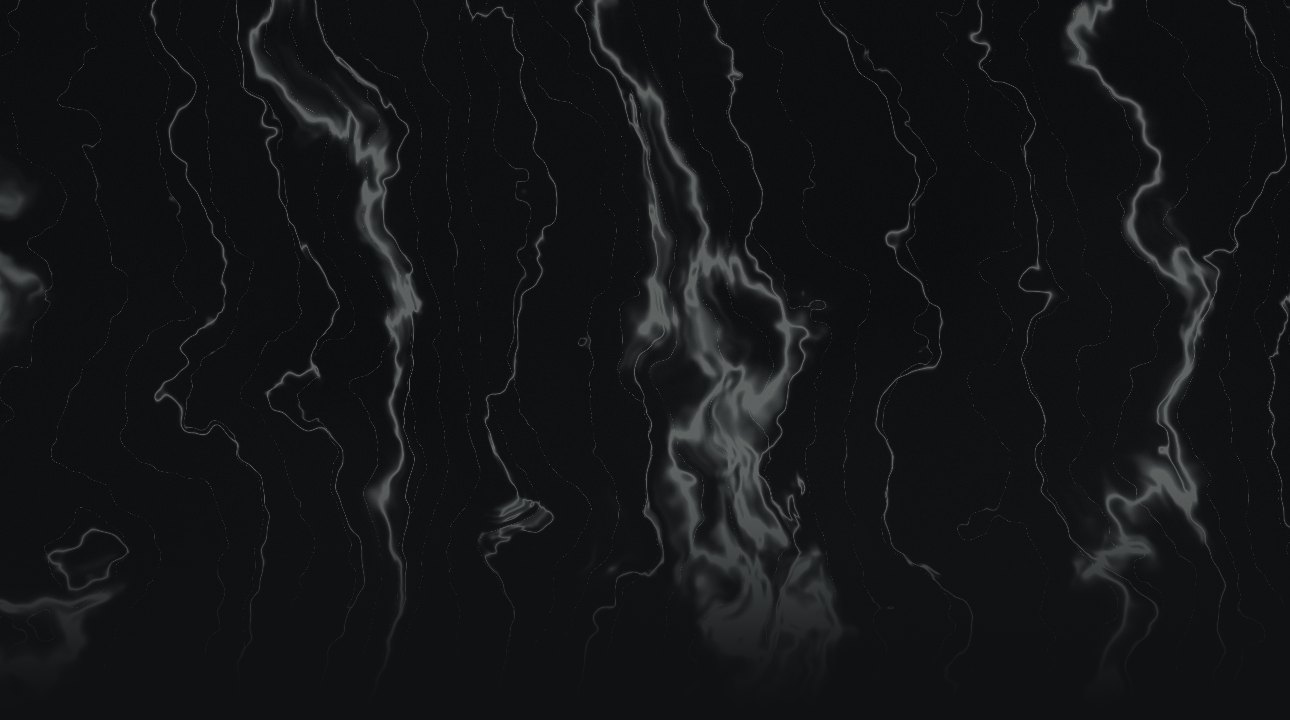
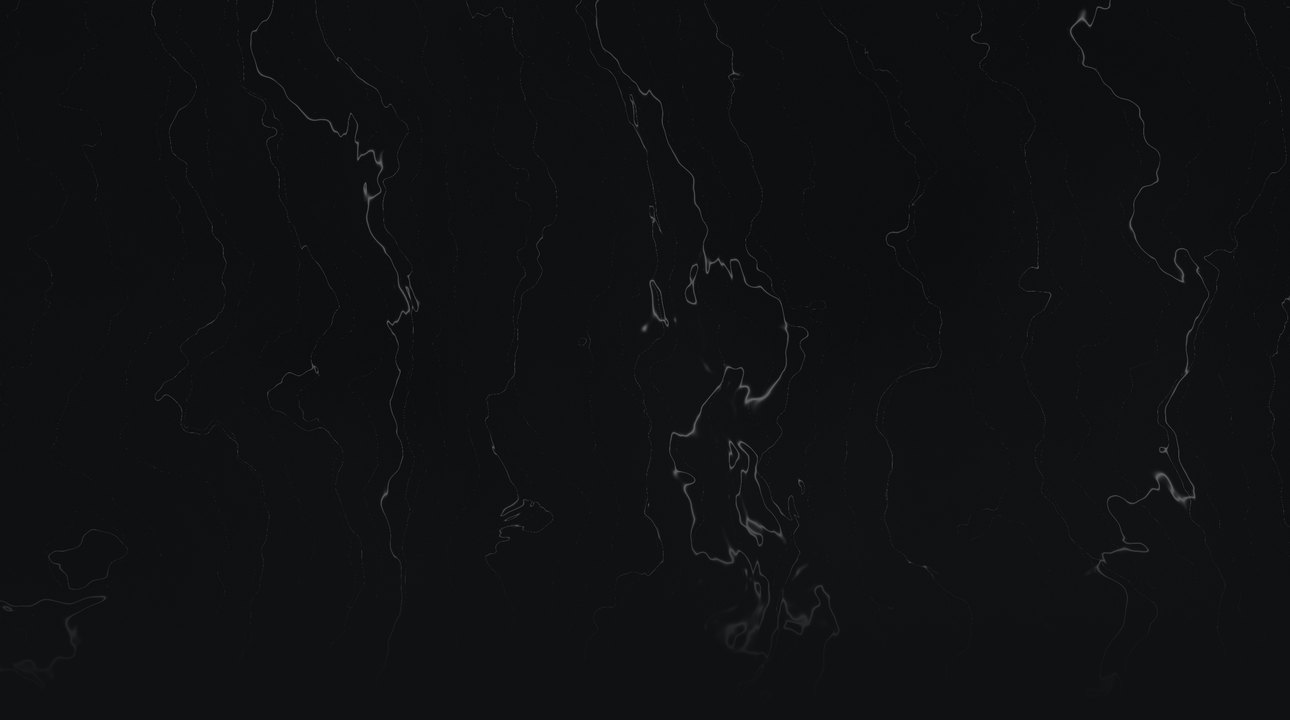
chore(assets): actualiza texturas de mármol con vetas más finas (PO 2026-09-13)
Cambio externo del Orquestador detectado en el árbol de trabajo, no una
edición propia de nerv-mobile — el ticket pide no regenerar ni tocar estas
texturas. Se commitea tal cual llegó para no perder el refinamiento del PO.

diff --git a/scripts/generar-marmol.py b/scripts/generar-marmol.py
@@ -1,12 +1,14 @@
 # Genera las texturas de mármol de los headers (T-105) con el mismo shader que la maqueta
-# aprobada por el PO: quieto, presencia de vetas 1.60, finura 0.85. Reproducible: semilla fija.
+# aprobada por el PO: quieto, presencia de vetas 1.60; vetas afinadas al mínimo (PO 2026-09-13). Reproducible: semilla fija.
 # Uso: python3 scripts/generar-marmol.py  (requiere numpy y Pillow)
 import os
 import numpy as np
 from PIL import Image
 
 RAIZ = os.path.dirname(os.path.dirname(os.path.abspath(__file__)))
-W, H = 1290, 720
+W_OUT, H_OUT = 1290, 720
+SS = 2  # supersampling: las vetas finísimas sin serrucho
+W, H = W_OUT*SS, H_OUT*SS
 T, INTEN, FIN = 40.0, 1.60, 0.85
 def fract(x): return x - np.floor(x)
 def h(px, py): return fract(np.sin(px*127.1 + py*311.7) * 43758.5453)
@@ -31,9 +33,9 @@ ux, uy = (xs+0.5)/H, ((H-1-ys)+0.5)/H
 qx, qy = ux*1.6 + T*0.012, uy*1.6 + T*0.004
 wx = fbm(qx, qy + T*0.01); wy = fbm(qx+5.2 - T*0.008, qy+1.3 - T*0.008)
 dx, dy = qx + 1.3*wx, qy + 1.3*wy
-grueso = veta(dx*1.0, dy*0.55, 3.2, 14.0/FIN)
-finas = veta(dx*1.3+7.1, dy*0.8+7.1, 7.5, 40.0/FIN) * 0.75
-pelo = veta(dx*2.1+2.3, dy*1.2+2.3, 13.0, 90.0/FIN) * 0.45
+grueso = veta(dx*1.0, dy*0.55, 3.2, 160.0)
+finas = veta(dx*1.3+7.1, dy*0.8+7.1, 7.5, 320.0) * 0.8
+pelo = veta(dx*2.1+2.3, dy*1.2+2.3, 13.0, 600.0) * 0.55
 nube = fbm(dx*0.9+3.0, dy*0.9+3.0)
 v = np.clip((grueso*0.9 + finas + pelo) * INTEN, 0, 1)[..., None]
 rng = np.random.default_rng(7)
@@ -47,7 +49,7 @@ for nombre, base, vet, k, bg in [
 ]:
     col = base + (vet - base) * (v*k) + grano
     col = col + (bg - col) * t
-    img = Image.fromarray((np.clip(col,0,1)*255).round().astype(np.uint8))
+    img = Image.fromarray((np.clip(col,0,1)*255).round().astype(np.uint8)).resize((W_OUT, H_OUT), Image.LANCZOS)
     out = os.path.join(RAIZ, 'assets', 'images', f'marmol-{nombre}.jpg')
     img.save(out, quality=86, optimize=True, progressive=True)
     print(out)
